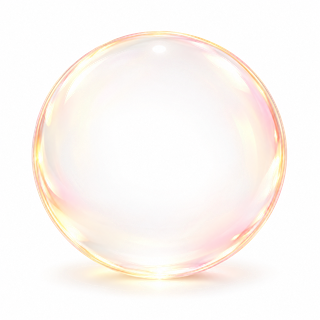
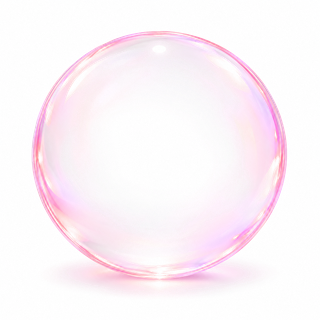
App v3：全白界面，去掉黄色（灵犀圆形按钮改黑、标签与高亮改浅灰、光晕只留淡粉淡紫、玻璃球与功能色块去黄）

Changed region(s): [[0.0938, 0.0938, 0.9062, 0.9062]]

diff --git a/app-v3.html b/app-v3.html
@@ -932,6 +932,35 @@ html,body{background:#ECEAE7}
 .tabs a.core.on{background:var(--yellow)!important;box-shadow:0 0 0 3px #fff,0 8px 22px rgba(30,30,40,.14)}
 /* 灵犀对话空状态的头像与 2×2 卡里的图标 */
 #lx-hello>div:first-child>div:first-child img{border-radius:16px}
+
+/* ============ v3.3 · 全白界面、去掉黄色（Zixin 2026-10-27） ============ */
+:root{--background:#FFFFFF;--card:#F5F5F7;--fill-tertiary:#F3F3F5;--fill-secondary:#ECECEF;--stroke-light:#EFEFF2;--stroke-medium:#E2E2E6;--y-soft:#F1F1F3;--yellow:#141414;--lime-soft:#F1F1F3}
+html,body{background:#F0F0F2}
+.frame,.screen,.bgB{background:#FFFFFF!important}
+.bgB::after{background:radial-gradient(36% 22% at 100% 70%,rgba(247,202,214,.14),transparent 70%),radial-gradient(40% 22% at 70% 0%,rgba(227,218,247,.18),transparent 70%)!important}
+/* 卡片：白底上用极浅灰面，不再磨砂 */
+.card,.glass,.tile,.idealhero,.relcard,.hp,.vcard,.result,.memcard2,.comp2,.fdcomp,.deckcard,.sugcard{background:#F5F5F7!important;-webkit-backdrop-filter:none!important;backdrop-filter:none!important;border:0!important;box-shadow:none!important}
+.lxbar{background:#FBE7DD!important}
+.inp,.compose input.obin,.field input{background:#F3F3F5!important;border:0!important}
+.chip{background:#fff!important;border:1px solid #E2E2E6!important}
+.tag{background:#F1F1F3!important}
+.tag.p,.tag.lx,.idealhero .ws span,.result .ws span,.deckcard .wd span.on,.fd .ty,.deckcard .photo .why0{background:#F1F1F3!important;color:#141414!important}
+.comp2 .sug{background:#F3F3F5!important}
+.sheet .box{background:#FFFFFF!important;-webkit-backdrop-filter:none;backdrop-filter:none}
+.compose{background:linear-gradient(180deg,rgba(255,255,255,0),#fff 35%)!important}
+.compose .bar{background:#F3F3F5!important;border:0!important;-webkit-backdrop-filter:none;backdrop-filter:none}
+#lx-qrows button{background:#F5F5F7!important;border:0!important;box-shadow:none!important;-webkit-backdrop-filter:none;backdrop-filter:none}
+/* 底栏：白色长条 + 细描边；灵犀圆形按钮改黑色 */
+.tabs{background:#fff!important;border:1px solid #ECECEF!important;box-shadow:0 8px 24px rgba(20,20,30,.06)!important;-webkit-backdrop-filter:none;backdrop-filter:none}
+.tabs a.on{background:#F1F1F3!important}
+.tabs a.core,.tabs a.core.on{background:#141414!important;box-shadow:0 8px 22px rgba(20,20,30,.18)!important}
+.tabs a.core img.v3i{filter:invert(1)}
+.compose .help.on{background:#F1F1F3!important}
+/* 首页：白底，光晕只留淡粉淡紫；玻璃边缘去黄 */
+#wabi{background:#fff!important}
+#wabi::before{background:radial-gradient(40% 24% at 50% 8%,rgba(227,218,247,.30),transparent 70%),radial-gradient(40% 24% at 80% 30%,rgba(247,202,214,.24),transparent 70%)!important}
+#wb-lens::after{box-shadow:inset 0 0 0 1px rgba(255,255,255,.85),inset 0 -14px 24px -8px rgba(236,150,175,.70),inset 0 -4px 10px rgba(190,160,235,.55),inset 12px 0 20px -12px rgba(200,180,240,.5),inset -12px 0 20px -12px rgba(245,170,195,.45),inset 0 12px 18px -6px rgba(255,255,255,.95)!important}
+#wb-lensin{background:#fff!important}
 </style>
 
 <div class="stage">
@@ -1984,7 +2013,7 @@ html,body{background:#ECEAE7}
     if (/^scene-/.test(name)){ img.onerror = null; img.src = 'art/v3/' + name + '.webp'; return; }
     if (/^ob-/.test(name)){ var vf = OBV[name]; img.onerror = function(){ img.onerror = null; img.src = 'art/v3/cover-' + COVERS[(obN++) % COVERS.length] + '.webp'; }; img.src = vf ? 'art/v3/vis/' + vf + '.webp' : 'art/v3/cover-blush.webp'; return; }
     if (name === 'scene-match' || name === 'scene-voice'){ img.onerror = function(){ img.onerror = null; img.src = 'art/v3/' + name + '.webp'; }; img.src = 'art/v3/vis/' + (name === 'scene-match' ? 'vis-match' : 'vis-voice') + '.webp'; return; }
-    if (img.id === 'pl-ink' && /^place-/.test(name)){ var PC = {'place-cafe':'sand','place-exhibition':'ocean','place-bookstore':'mustard','place-river':'aurora','place-dinner':'ember','place-theatre':'dusk'}; img.onerror = null; img.src = 'art/v3/cover-' + (PC[name]||'blush') + '.webp'; return; }
+    if (img.id === 'pl-ink' && /^place-/.test(name)){ var PC = {'place-cafe':'sand','place-exhibition':'ocean','place-bookstore':'blush','place-river':'ocean','place-dinner':'ember','place-theatre':'dusk'}; img.onerror = null; img.src = 'art/v3/cover-' + (PC[name]||'blush') + '.webp'; return; }
     if (V3.indexOf(name) >= 0){ img.onerror = null; img.src = 'art/v3/' + name + '.svg'; }
   }
   function swapCodex(img){
@@ -2047,7 +2076,7 @@ html,body{background:#ECEAE7}
   }
   /* 头像泡泡 */
   var PICS = []; for (var i=1;i<=20;i++){ PICS.push('art/people/p'+(i<10?'0':'')+i+'.webp'); }
-  var DOTS = ['#F5E76A','#F7CAD6','#E3DAF7','#FAD1B8'];
+  var DOTS = ['#F7CAD6','#E3DAF7','#FAD1B8','#DDE3F5'];
   function burst(){
     cloud.innerHTML = ''; balls = [];
     var n = PICS.length + 10;
